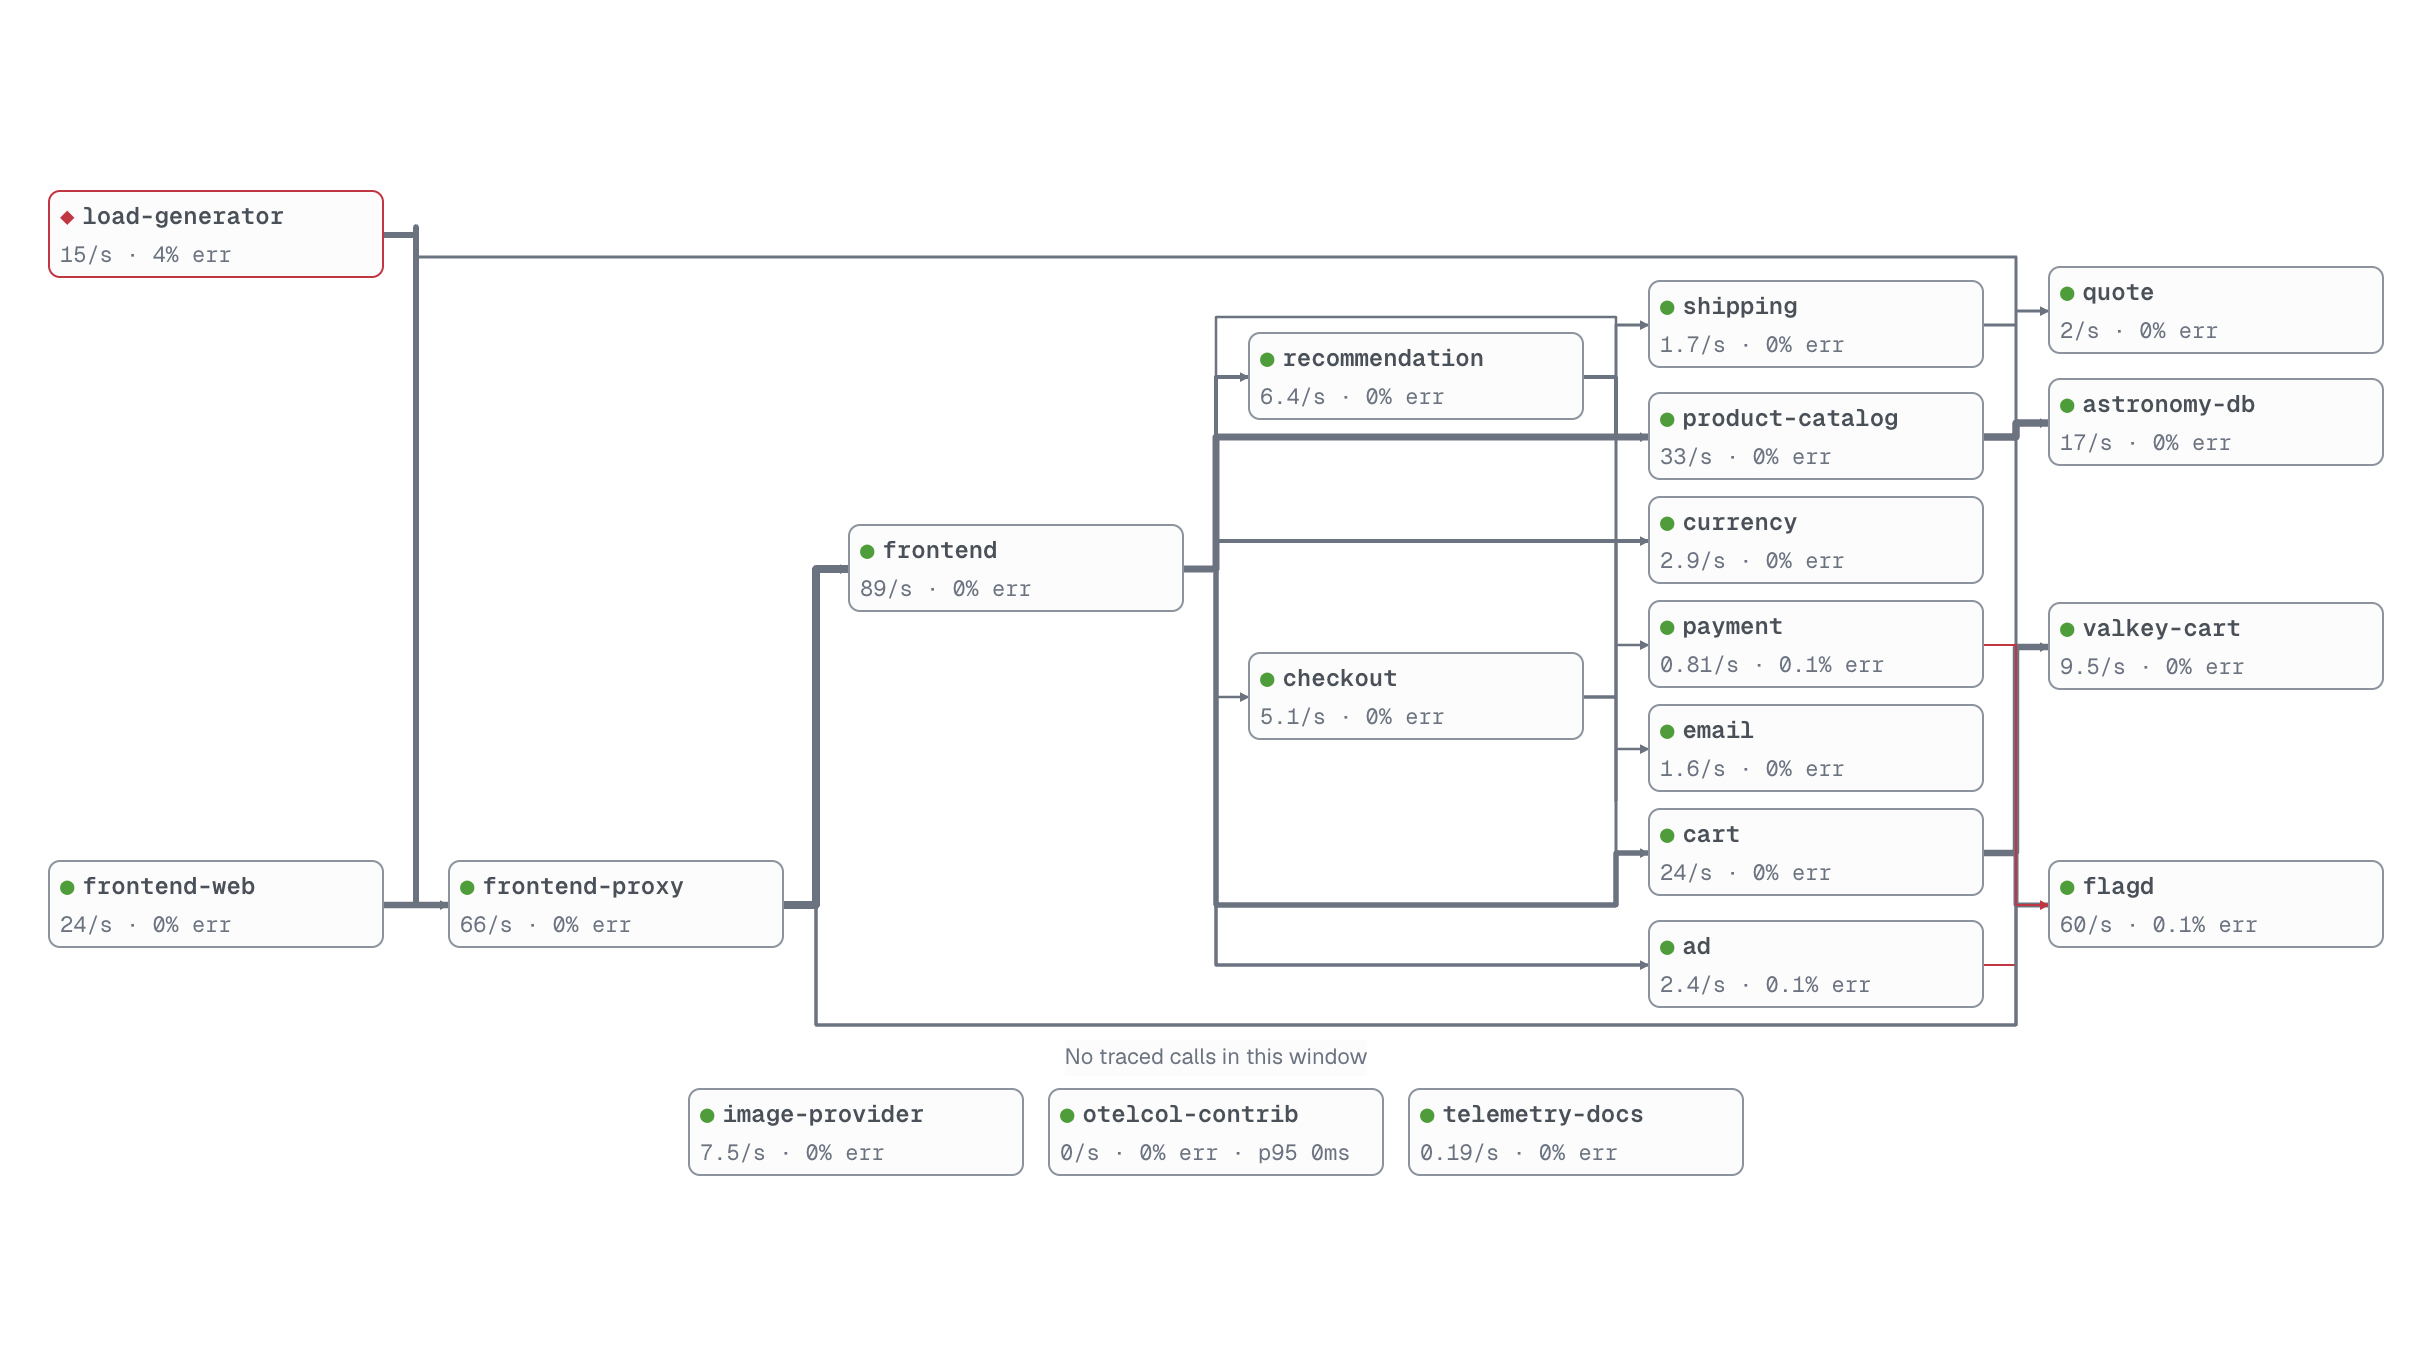
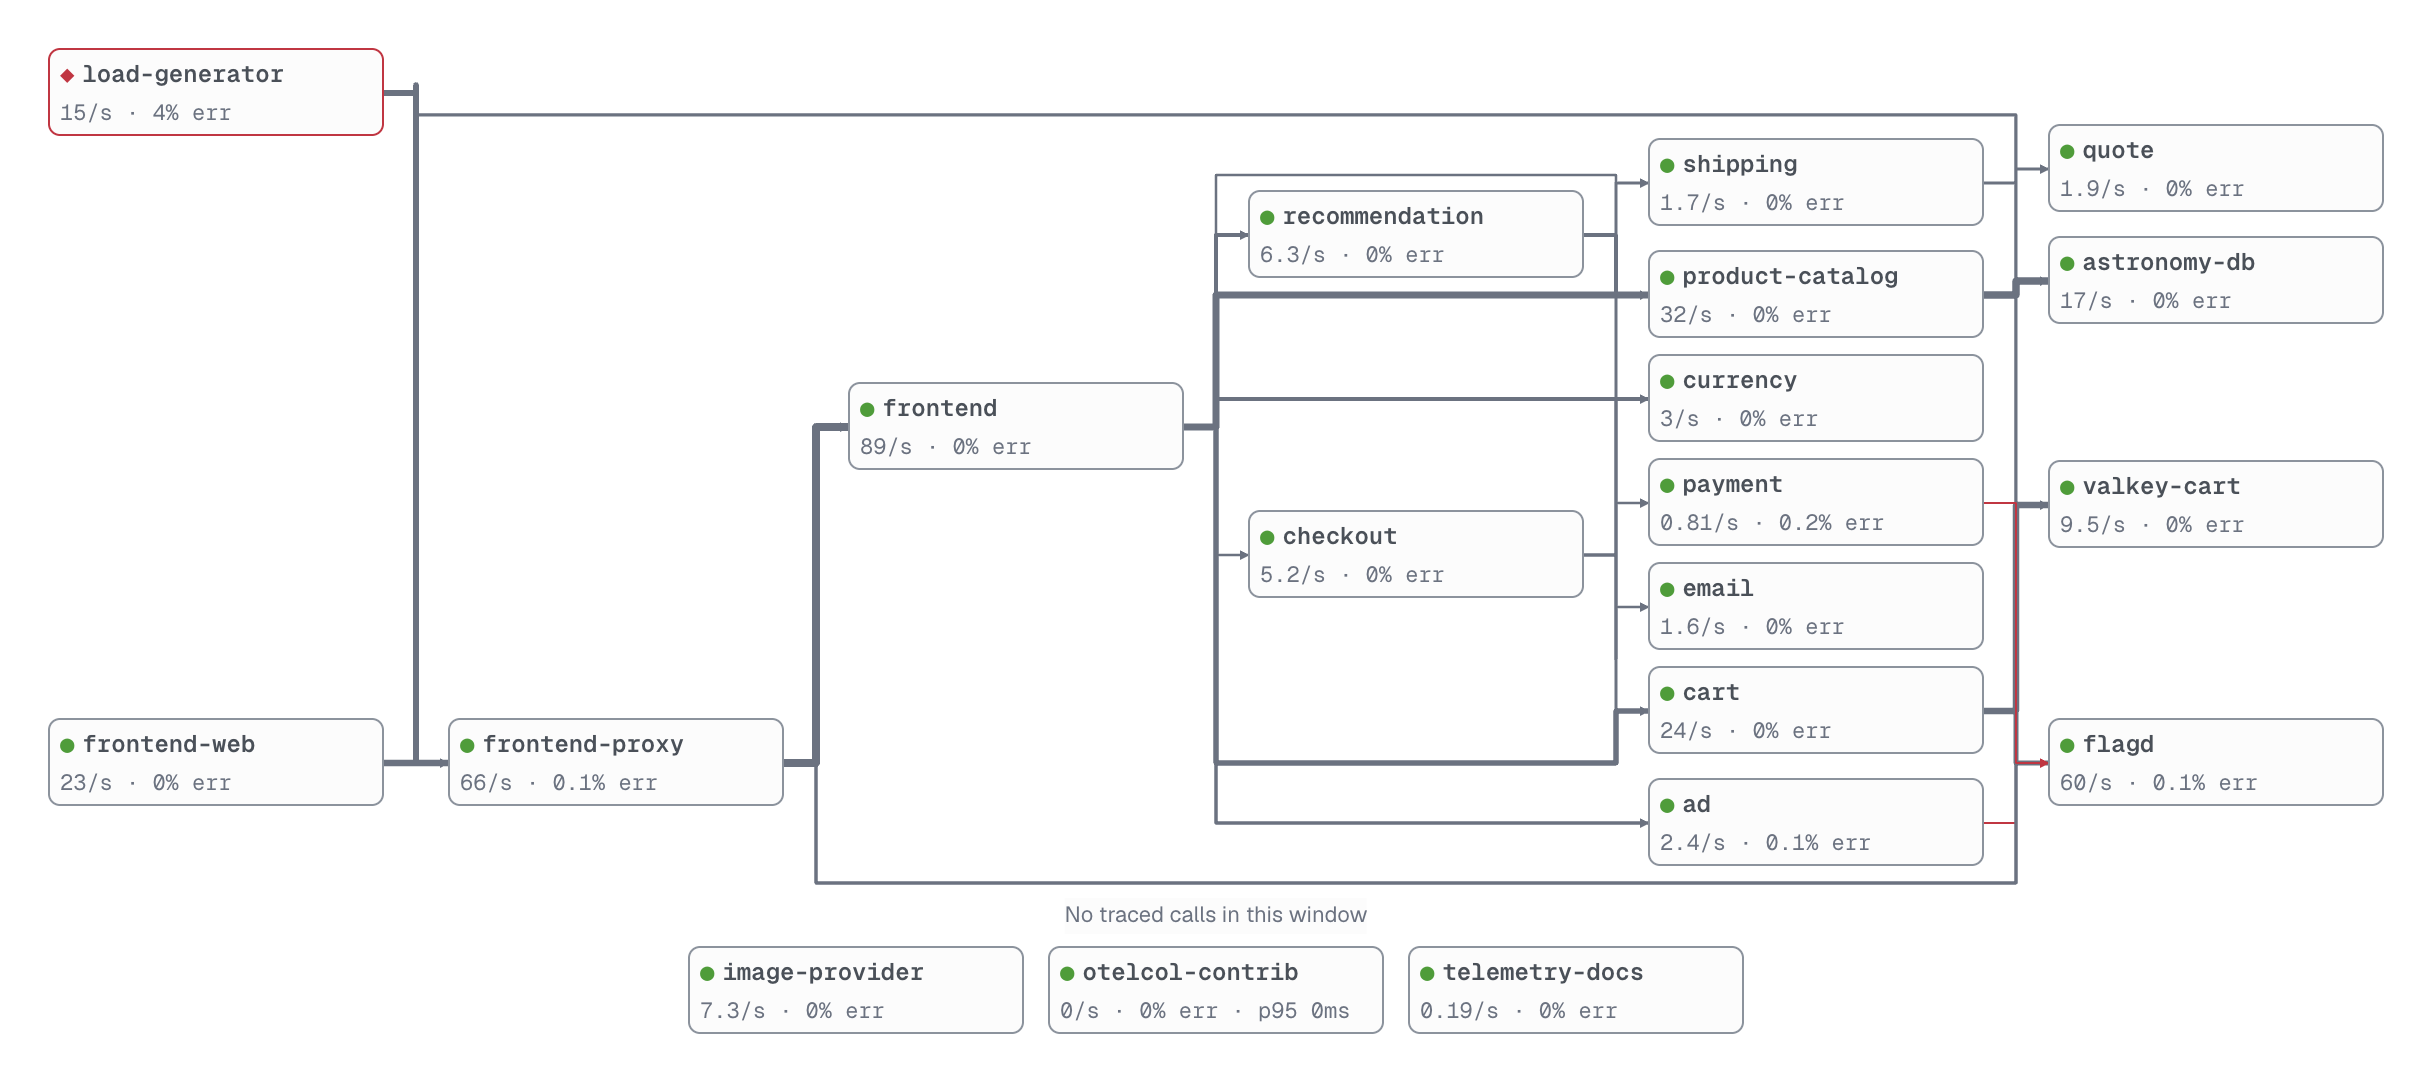
site: widen the landing replay and give captures the full width
- The replay figure spans the content width (1080 px at 1440) under a
  two-line introduction. Its chart runs the full width and stays above
  the fold at 1440 x 900.
- Capture rows put the heading and sentence above a full-width image
  instead of alternating columns, so the product is about 60% larger.
  The overview capture omits the sidebar, and the service map is cropped
  to the graph's bounds.
- The stat band uses a grid that wraps cleanly: three columns on tablets,
  and on phones the throughput link above a two-by-two grid.
- Sections share one set of spacing values, and small figure text is at
  least 12 px.

Claude-Session: https://claude.ai/code/session_01XA52nWyQ3R5f5kK8kjpAQW

diff --git a/ui/host/e2e/landing-captures.spec.ts b/ui/host/e2e/landing-captures.spec.ts
@@ -95,7 +95,18 @@ test("capture the overview, service map and trace waterfall for the landing page
     ...dashboard.spec.panels.filter(panel => panel.viz === "timeseries").slice(0, 2),
   ];
   for (const panel of firstFold) await expect(page.locator(cardSelector(panel.id))).toBeInViewport({ ratio: 1 });
-  await capture("overview");
+  const overview = page.getByRole("main", { name: "Dashboard", exact: true });
+  await capture("overview", overview, async () => {
+    const clip = await overview.evaluate(main => {
+      const bounds = main.getBoundingClientRect();
+      const x = Math.ceil(Math.max(0, bounds.left)), y = Math.ceil(Math.max(0, bounds.top));
+      return { x, y, width: Math.floor(Math.min(window.innerWidth, bounds.right)) - x,
+        height: Math.floor(Math.min(window.innerHeight, bounds.bottom)) - y };
+    });
+    expect(clip.width).toBeGreaterThanOrEqual(clip.height);
+    expect(clip.height).toBeGreaterThan(0);
+    return clip;
+  });
 
   const mapPanel = dashboard.spec.panels.find(panel => panel.viz === "service_map");
   if (!mapPanel) throw new Error("System overview has no service map");
@@ -118,19 +129,19 @@ test("capture the overview, service map and trace waterfall for the landing page
     // its contents, which can reintroduce the whitespace being removed.
     const clip = await fullMap.getByRole("region", { name: /service dependency graph/ }).evaluate(region => {
       const boxes = [...region.querySelectorAll("button, svg > g > path, span")]
-        .map(node => node.getBoundingClientRect()).filter(box => box.width > 0 && box.height > 0);
+        .map(node => node.getBoundingClientRect()).filter(box => box.width > 0 || box.height > 0);
       if (!boxes.length) throw new Error("The service graph has no rendered bounds");
       const left = Math.min(...boxes.map(box => box.left)), right = Math.max(...boxes.map(box => box.right));
       const top = Math.min(...boxes.map(box => box.top)), bottom = Math.max(...boxes.map(box => box.bottom));
-      // At least 24px on every side, centred with symmetric padding; expand
-      // the shorter dimension only as needed for a 16:9 landscape frame.
-      const width = Math.ceil(Math.max(right - left + 48, (bottom - top + 48) * 16 / 9));
-      const height = Math.ceil(width * 9 / 16);
-      return { x: (left + right - width) / 2, y: (top + bottom - height) / 2, width, height };
+      // Keep 24 CSS pixels (48 source pixels at 2x) beyond every rendered
+      // node, connector and label. Let the graph determine the aspect ratio.
+      const x = Math.floor(left - 24), y = Math.floor(top - 24);
+      return { x, y, width: Math.ceil(right + 24) - x, height: Math.ceil(bottom + 24) - y };
     });
     const viewport = page.viewportSize()!;
     expect(clip.x).toBeGreaterThanOrEqual(0); expect(clip.x + clip.width).toBeLessThanOrEqual(viewport.width);
     expect(clip.y).toBeGreaterThanOrEqual(0); expect(clip.y + clip.height).toBeLessThanOrEqual(viewport.height);
+    expect(clip.width).toBeGreaterThanOrEqual(clip.height);
     return clip;
   });
 

diff --git a/site/src/styles/fanout.css b/site/src/styles/fanout.css
@@ -119,6 +119,50 @@ body:has(.fo-hero) header.header .sl-flex {
   justify-content: space-between;
 }
 
+/* One rhythm for the landing page, including the gap across Starlight's hero
+   and Markdown wrappers. Keep the content edges shared by copy and captures. */
+body:has(.fo-hero) {
+  --fo-section-gap: 4rem;
+  --fo-figure-gap: 2rem;
+  --fo-capture-gap: 1.5rem;
+  --sl-content-pad-x: 2rem;
+}
+
+body:has(.fo-hero) .sl-container {
+  min-width: 0;
+  margin-inline: auto;
+}
+
+body:has(.fo-hero) :is(.main-frame, .main-pane) {
+  min-width: 0;
+}
+
+body:has(.fo-hero) .sl-container > .sl-markdown-content {
+  display: grid;
+  /* Auto-minimum tracks can grow to the captures' intrinsic image width. */
+  grid-template-columns: minmax(0, 1fr);
+  min-width: 0;
+  gap: var(--fo-section-gap);
+  margin-top: var(--fo-figure-gap);
+}
+
+body:has(.fo-hero) .sl-markdown-content > * {
+  min-width: 0;
+  margin: 0;
+}
+
+@media (max-width: 71.999rem) {
+  body:has(.fo-hero) { --fo-section-gap: 3.5rem; }
+}
+
+@media (max-width: 39.999rem) {
+  body:has(.fo-hero) {
+    --fo-section-gap: 3rem;
+    --fo-capture-gap: 1.25rem;
+    --sl-content-pad-x: 1rem;
+  }
+}
+
 /* Prose uses the productive member of the same Plex family. The mono identity
    remains in every heading and piece of chrome, while paragraphs and lists get
    the denser word shapes and calmer rhythm of a proportional text face. */

diff --git a/site/src/components/landing/throughput-replay.ts b/site/src/components/landing/throughput-replay.ts
@@ -65,7 +65,7 @@ export function mountReplay(root: HTMLElement, load: () => Promise<typeof uPlot>
     colors = signals.map(key => style.getPropertyValue(`--fo-series-${key}`).trim());
     ink = style.getPropertyValue("--sl-color-gray-2").trim();
     grid = style.getPropertyValue("--sl-color-gray-5").trim();
-    font = `11px ${style.getPropertyValue("--fo-font-display").trim()}`;
+    font = `12px ${style.getPropertyValue("--fo-font-display").trim()}`;
   };
   const readouts = () => {
     elapsedLabel.textContent = `${clock(elapsed % duration)} / ${clock(duration)}`;
